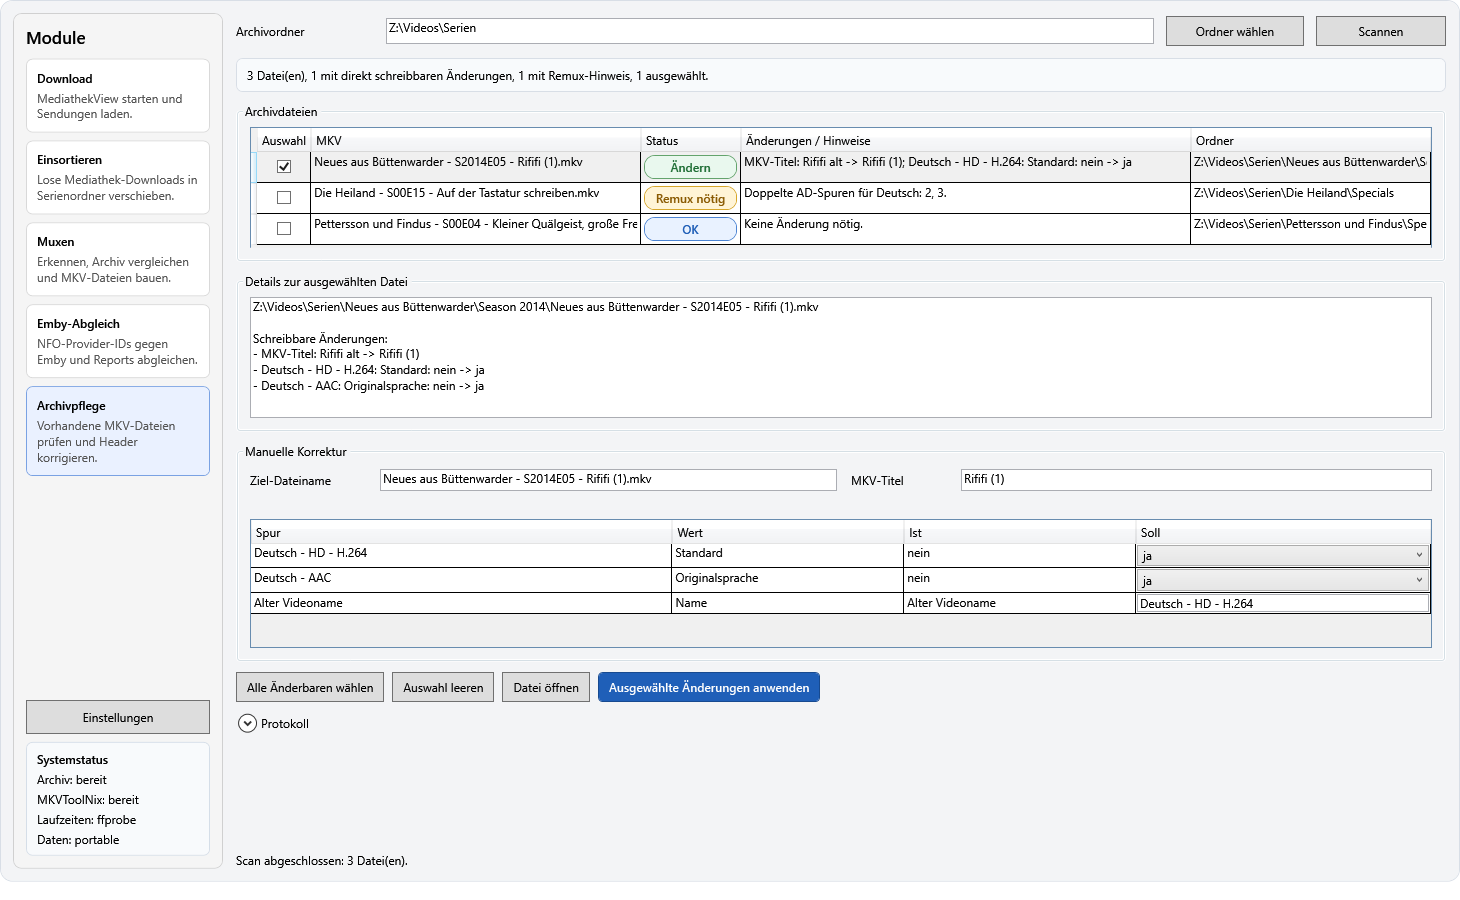
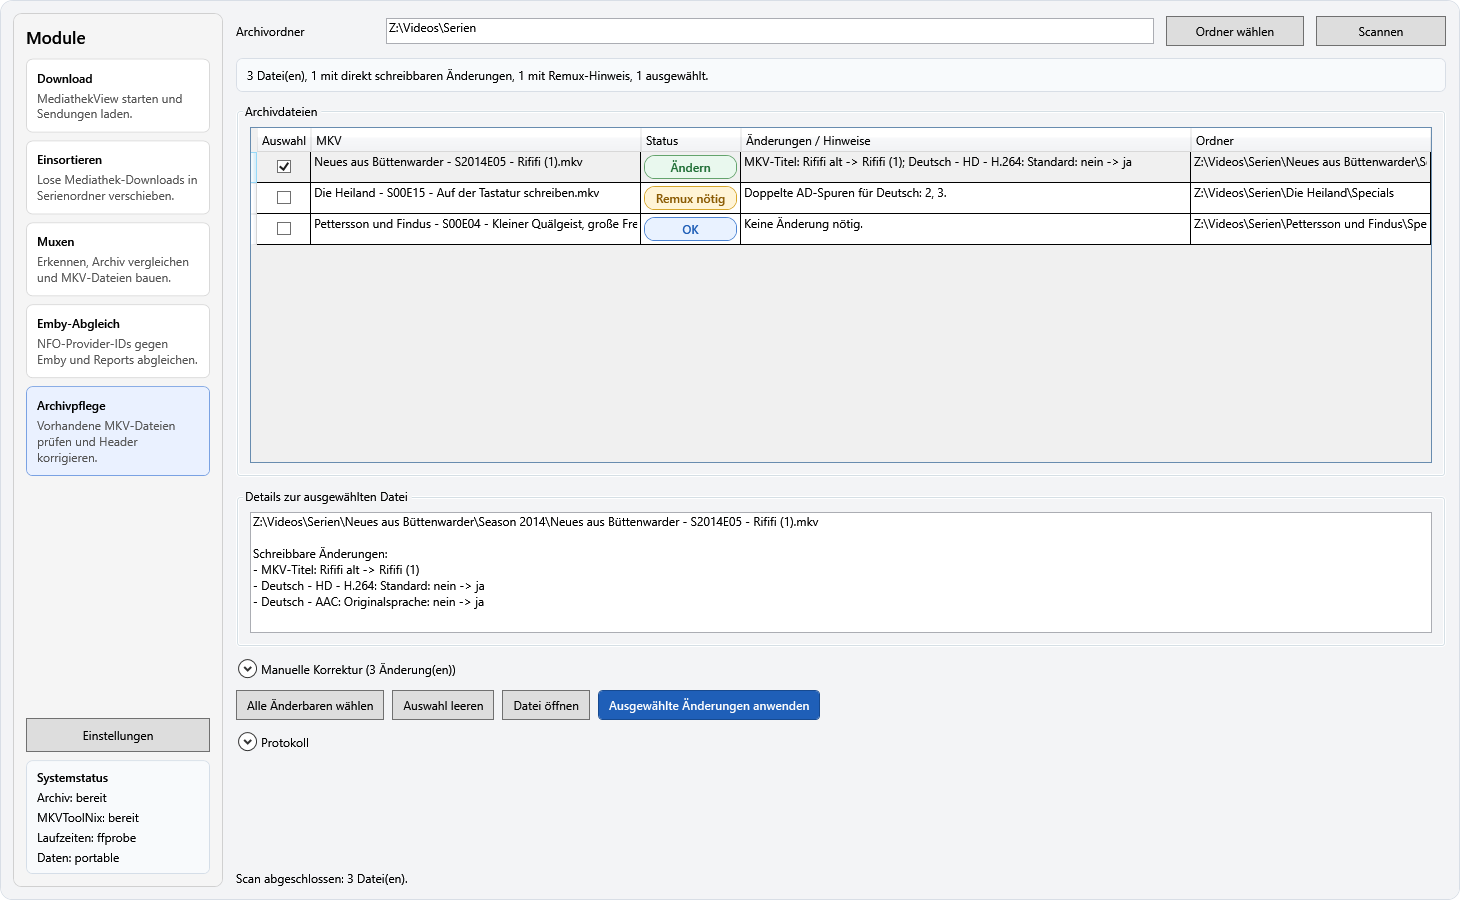
Improve archive maintenance correction mode

diff --git a/Views/ArchiveMaintenanceView.xaml b/Views/ArchiveMaintenanceView.xaml
@@ -98,7 +98,7 @@
             <RowDefinition Height="Auto" />
             <RowDefinition Height="*" />
             <RowDefinition Height="170" />
-            <RowDefinition Height="230" />
+            <RowDefinition Height="Auto" />
             <RowDefinition Height="Auto" />
             <RowDefinition Height="130" />
             <RowDefinition Height="Auto" />
@@ -221,52 +221,72 @@
                      HorizontalScrollBarVisibility="Disabled" />
         </GroupBox>
 
-        <GroupBox Grid.Row="4"
+        <Expander Grid.Row="4"
                   Margin="0,10,0,0"
-                  Header="Manuelle Korrektur">
-            <Grid Margin="8"
-                  IsEnabled="{Binding SelectedItem.CanEditManualCorrections, Mode=OneWay}">
-                <Grid.RowDefinitions>
-                    <RowDefinition Height="Auto" />
-                    <RowDefinition Height="Auto" />
-                    <RowDefinition Height="*" />
-                </Grid.RowDefinitions>
-                <Grid.ColumnDefinitions>
-                    <ColumnDefinition Width="130" />
-                    <ColumnDefinition Width="*" />
-                    <ColumnDefinition Width="110" />
-                    <ColumnDefinition Width="*" />
-                </Grid.ColumnDefinitions>
+                  Header="{Binding SelectedItem.ManualCorrectionHeaderText, Mode=OneWay}"
+                  IsExpanded="False">
+            <Border Padding="8"
+                    Background="#FFF8FAFC"
+                    BorderBrush="#FFD8DEE6"
+                    BorderThickness="1">
+                <Grid MaxHeight="310"
+                      IsEnabled="{Binding SelectedItem.CanEditManualCorrections, Mode=OneWay}">
+                    <Grid.RowDefinitions>
+                        <RowDefinition Height="Auto" />
+                        <RowDefinition Height="Auto" />
+                        <RowDefinition Height="Auto" />
+                        <RowDefinition Height="*" />
+                    </Grid.RowDefinitions>
+                    <Grid.ColumnDefinitions>
+                        <ColumnDefinition Width="130" />
+                        <ColumnDefinition Width="*" />
+                        <ColumnDefinition Width="110" />
+                        <ColumnDefinition Width="*" />
+                    </Grid.ColumnDefinitions>
 
-                <TextBlock Grid.Row="0"
+                    <TextBlock Grid.Row="0"
                            Grid.Column="0"
                            Margin="0,5,8,5"
                            VerticalAlignment="Center"
                            Text="Ziel-Dateiname" />
-                <TextBox Grid.Row="0"
+                    <TextBox Grid.Row="0"
                          Grid.Column="1"
                          Margin="0,2,14,2"
                          Text="{Binding SelectedItem.TargetFileName, Mode=TwoWay, UpdateSourceTrigger=PropertyChanged}" />
-                <TextBlock Grid.Row="0"
+                    <TextBlock Grid.Row="0"
                            Grid.Column="2"
                            Margin="0,5,8,5"
                            VerticalAlignment="Center"
                            Text="MKV-Titel" />
-                <TextBox Grid.Row="0"
+                    <TextBox Grid.Row="0"
                          Grid.Column="3"
                          Margin="0,2,0,2"
                          Text="{Binding SelectedItem.TargetContainerTitle, Mode=TwoWay, UpdateSourceTrigger=PropertyChanged}" />
 
-                <TextBlock Grid.Row="1"
+                    <TextBlock Grid.Row="1"
                            Grid.ColumnSpan="4"
                            Margin="0,4,0,6"
                            Foreground="#FFAA2E34"
                            TextWrapping="Wrap"
                            Text="{Binding SelectedItem.ManualValidationMessage, Mode=OneWay}" />
 
-                <DataGrid Grid.Row="2"
+                    <DockPanel Grid.Row="2"
+                           Grid.ColumnSpan="4"
+                           Margin="0,0,0,6">
+                    <CheckBox DockPanel.Dock="Right"
+                              Margin="12,0,0,0"
+                              VerticalAlignment="Center"
+                              Content="Alle Track-Werte anzeigen"
+                              IsChecked="{Binding SelectedItem.ShowAllHeaderCorrections, Mode=TwoWay}" />
+                    <TextBlock VerticalAlignment="Center"
+                               Foreground="#FF5F6B76"
+                               TextWrapping="Wrap"
+                               Text="{Binding SelectedItem.HeaderCorrectionModeText, Mode=OneWay}" />
+                </DockPanel>
+
+                    <DataGrid Grid.Row="3"
                           Grid.ColumnSpan="4"
-                          ItemsSource="{Binding SelectedItem.HeaderCorrections, Mode=OneWay}"
+                          ItemsSource="{Binding SelectedItem.VisibleHeaderCorrections, Mode=OneWay}"
                           AutoGenerateColumns="False"
                           CanUserAddRows="False"
                           CanUserDeleteRows="False"
@@ -274,7 +294,9 @@
                           HeadersVisibility="Column"
                           IsReadOnly="False"
                           HorizontalScrollBarVisibility="Auto"
-                          VerticalScrollBarVisibility="Auto">
+                          VerticalScrollBarVisibility="Auto"
+                          MinHeight="90"
+                          MaxHeight="190">
                     <DataGrid.Columns>
                         <DataGridTextColumn Header="Spur"
                                             Binding="{Binding DisplayLabel}"
@@ -307,9 +329,10 @@
                             </DataGridTemplateColumn.CellTemplate>
                         </DataGridTemplateColumn>
                     </DataGrid.Columns>
-                </DataGrid>
-            </Grid>
-        </GroupBox>
+                    </DataGrid>
+                </Grid>
+            </Border>
+        </Expander>
 
         <StackPanel Grid.Row="5"
                     Margin="0,10,0,10"

diff --git a/ViewModels/Modules/ArchiveMaintenanceItemViewModel.cs b/ViewModels/Modules/ArchiveMaintenanceItemViewModel.cs
@@ -17,6 +17,7 @@ internal sealed class ArchiveMaintenanceItemViewModel : INotifyPropertyChanged
     private bool _wasApplied;
     private string _targetFileName;
     private string _targetContainerTitle;
+    private bool _showAllHeaderCorrections;
 
     public ArchiveMaintenanceItemViewModel(ArchiveMaintenanceItemAnalysis analysis)
     {
@@ -37,6 +38,57 @@ internal sealed class ArchiveMaintenanceItemViewModel : INotifyPropertyChanged
     public event PropertyChangedEventHandler? PropertyChanged;
 
     public ObservableCollection<ArchiveMaintenanceHeaderCorrectionViewModel> HeaderCorrections { get; }
+
+    public IEnumerable<ArchiveMaintenanceHeaderCorrectionViewModel> VisibleHeaderCorrections => ShowAllHeaderCorrections
+        ? HeaderCorrections
+        : HeaderCorrections.Where(correction => correction.HasChange);
+
+    public bool ShowAllHeaderCorrections
+    {
+        get => _showAllHeaderCorrections;
+        set
+        {
+            if (_showAllHeaderCorrections == value)
+            {
+                return;
+            }
+
+            _showAllHeaderCorrections = value;
+            OnPropertyChanged();
+            OnPropertyChanged(nameof(VisibleHeaderCorrections));
+            OnPropertyChanged(nameof(VisibleHeaderCorrectionCount));
+            OnPropertyChanged(nameof(HiddenHeaderCorrectionCount));
+            OnPropertyChanged(nameof(HeaderCorrectionModeText));
+        }
+    }
+
+    public int VisibleHeaderCorrectionCount => VisibleHeaderCorrections.Count();
+
+    public int HiddenHeaderCorrectionCount => Math.Max(0, HeaderCorrections.Count - VisibleHeaderCorrectionCount);
+
+    public string ManualCorrectionHeaderText => HasWritableChanges
+        ? $"Manuelle Korrektur ({BuildCurrentChangeNotes().Count} Änderung(en))"
+        : "Manuelle Korrektur (optional)";
+
+    public string HeaderCorrectionModeText
+    {
+        get
+        {
+            if (HeaderCorrections.Count == 0)
+            {
+                return "Für diese Datei wurden keine Track-Headerwerte gelesen.";
+            }
+
+            if (ShowAllHeaderCorrections)
+            {
+                return "Alle Track-Werte sind eingeblendet. Unveränderte Zielwerte werden nicht geschrieben.";
+            }
+
+            return HiddenHeaderCorrectionCount == 0
+                ? "Es werden nur Track-Werte angezeigt, die beim Anwenden wirklich geändert würden."
+                : $"Es werden nur geänderte Track-Werte angezeigt. {HiddenHeaderCorrectionCount} unveränderte Werte sind ausgeblendet.";
+        }
+    }
 
     public string FilePath => _analysis.FilePath;
 
@@ -386,7 +438,8 @@ internal sealed class ArchiveMaintenanceItemViewModel : INotifyPropertyChanged
 
     private void HeaderCorrection_OnPropertyChanged(object? sender, PropertyChangedEventArgs e)
     {
-        if (e.PropertyName is nameof(ArchiveMaintenanceHeaderCorrectionViewModel.TargetValue))
+        if (e.PropertyName is nameof(ArchiveMaintenanceHeaderCorrectionViewModel.TargetValue)
+            or nameof(ArchiveMaintenanceHeaderCorrectionViewModel.HasChange))
         {
             NotifyManualCorrectionChanged();
         }
@@ -407,6 +460,11 @@ internal sealed class ArchiveMaintenanceItemViewModel : INotifyPropertyChanged
         OnPropertyChanged(nameof(ChangeSummary));
         OnPropertyChanged(nameof(DetailText));
         OnPropertyChanged(nameof(ManualValidationMessage));
+        OnPropertyChanged(nameof(VisibleHeaderCorrections));
+        OnPropertyChanged(nameof(VisibleHeaderCorrectionCount));
+        OnPropertyChanged(nameof(HiddenHeaderCorrectionCount));
+        OnPropertyChanged(nameof(ManualCorrectionHeaderText));
+        OnPropertyChanged(nameof(HeaderCorrectionModeText));
     }
 
     private void OnPropertyChanged([CallerMemberName] string? propertyName = null)
@@ -461,6 +519,8 @@ internal sealed class ArchiveMaintenanceHeaderCorrectionViewModel : INotifyPrope
 
     public bool IsTextValue => !IsFlag;
 
+    public bool HasChange => CreateValueEdit() is not null;
+
     public string TargetValue
     {
         get => _targetValue;
@@ -476,6 +536,7 @@ internal sealed class ArchiveMaintenanceHeaderCorrectionViewModel : INotifyPrope
 
             _targetValue = normalizedValue;
             OnPropertyChanged();
+            OnPropertyChanged(nameof(HasChange));
         }
     }
 

diff --git a/tools/ReadmeScreenshotGenerator/DemoModels.cs b/tools/ReadmeScreenshotGenerator/DemoModels.cs
@@ -339,6 +339,16 @@ internal sealed class DemoArchiveMaintenanceItem
     public string TargetContainerTitle { get; set; } = string.Empty;
     public string ManualValidationMessage { get; init; } = string.Empty;
     public ObservableCollection<DemoArchiveMaintenanceHeaderCorrection> HeaderCorrections { get; init; } = [];
+    public IEnumerable<DemoArchiveMaintenanceHeaderCorrection> VisibleHeaderCorrections => ShowAllHeaderCorrections
+        ? HeaderCorrections
+        : HeaderCorrections.Where(correction => correction.HasChange);
+    public bool ShowAllHeaderCorrections { get; set; }
+    public int VisibleHeaderCorrectionCount => VisibleHeaderCorrections.Count();
+    public int HiddenHeaderCorrectionCount => Math.Max(0, HeaderCorrections.Count - VisibleHeaderCorrectionCount);
+    public string ManualCorrectionHeaderText => "Manuelle Korrektur (3 Änderung(en))";
+    public string HeaderCorrectionModeText => HiddenHeaderCorrectionCount == 0
+        ? "Es werden nur Track-Werte angezeigt, die beim Anwenden wirklich geändert würden."
+        : $"Es werden nur geänderte Track-Werte angezeigt. {HiddenHeaderCorrectionCount} unveränderte Werte sind ausgeblendet.";
     public string StatusText { get; init; } = string.Empty;
     public string StatusTone { get; init; } = string.Empty;
     public string ChangeSummary { get; init; } = string.Empty;
@@ -361,4 +371,6 @@ internal sealed class DemoArchiveMaintenanceHeaderCorrection
     public bool IsFlag { get; init; }
 
     public bool IsTextValue => !IsFlag;
+
+    public bool HasChange => !string.Equals(CurrentDisplayValue, TargetValue, StringComparison.Ordinal);
 }

diff --git a/MkvToolnixAutomatisierung.Tests/ViewModels/ArchiveMaintenanceViewModelTests.cs b/MkvToolnixAutomatisierung.Tests/ViewModels/ArchiveMaintenanceViewModelTests.cs
@@ -101,6 +101,22 @@ public sealed class ArchiveMaintenanceViewModelTests
     }
 
     [Fact]
+    public void VisibleHeaderCorrections_HidesUnchangedValuesUntilRequested()
+    {
+        var item = new ArchiveMaintenanceItemViewModel(CreateAnalysisWithTrackCorrectionCandidate());
+        var defaultFlagCorrection = Assert.Single(item.HeaderCorrections);
+
+        Assert.Empty(item.VisibleHeaderCorrections);
+
+        item.ShowAllHeaderCorrections = true;
+        Assert.Single(item.VisibleHeaderCorrections);
+
+        defaultFlagCorrection.TargetValue = "ja";
+        item.ShowAllHeaderCorrections = false;
+        Assert.Single(item.VisibleHeaderCorrections);
+    }
+
+    [Fact]
     public void InvalidManualFileName_DisablesWritableSelection()
     {
         var item = new ArchiveMaintenanceItemViewModel(CreateWritableAnalysis());

diff --git a/README.md b/README.md
@@ -152,7 +152,7 @@ Die `Archivpflege` ist der nachgelagerte Kontrollschritt für bereits vorhandene
 1. Serienarchiv oder einen Serienunterordner wählen.
 2. `Scannen`, um alle `.mkv`-Dateien rekursiv zu prüfen.
 3. In der Tabelle kontrollieren, ob ein Eintrag nur direkte Header-/Dateinamenänderungen braucht oder ob ein manueller Remux-Hinweis vorliegt.
-4. Im Detailbereich die konkreten Änderungen prüfen und bei Bedarf im Bereich `Manuelle Korrektur` Ziel-Dateiname, MKV-Titel oder einzelne Track-Zielwerte anpassen.
+4. Im Detailbereich die konkreten Änderungen prüfen und bei Bedarf den Bereich `Manuelle Korrektur` aufklappen, um Ziel-Dateiname, MKV-Titel oder einzelne Track-Zielwerte anzupassen.
 5. Nur freigegebene Zeilen auswählen und `Ausgewählte Änderungen anwenden`.
 
 Direkt schreibbar sind derzeit MKV-Titel, Tracknamen, Sprachwerte, Standard-/Forced-/Original-/Accessibility-Flags sowie sichere Dateinamen-Normalisierungen inklusive gleichnamiger Emby-Begleitdateien. Automatisch erkannte Sollwerte sind vor dem Schreiben manuell überschreibbar; die App schreibt weiterhin nur ausgewählte Zeilen. Wenn eine gleichnamige `.nfo` eine TVDB-Episoden-ID enthält und für die Serie bereits ein TVDB-Mapping gespeichert ist, wird der TVDB-Titel als Sollwert genutzt; sonst bleibt der lokale Dateiname der Fallback. Fehlende AD- oder Untertitelspuren werden bewusst nicht als Problem gemeldet: das Archivpflege-Modul bewertet den vorhandenen Bestand und fordert keine Inhalte an, die nie gemuxt wurden. Doppelte AD-Spuren oder doppelte Untertitel-Slots werden dagegen als Remux-Hinweis markiert, weil diese Fälle nicht sauber per Header-Edit aufzulösen sind.
